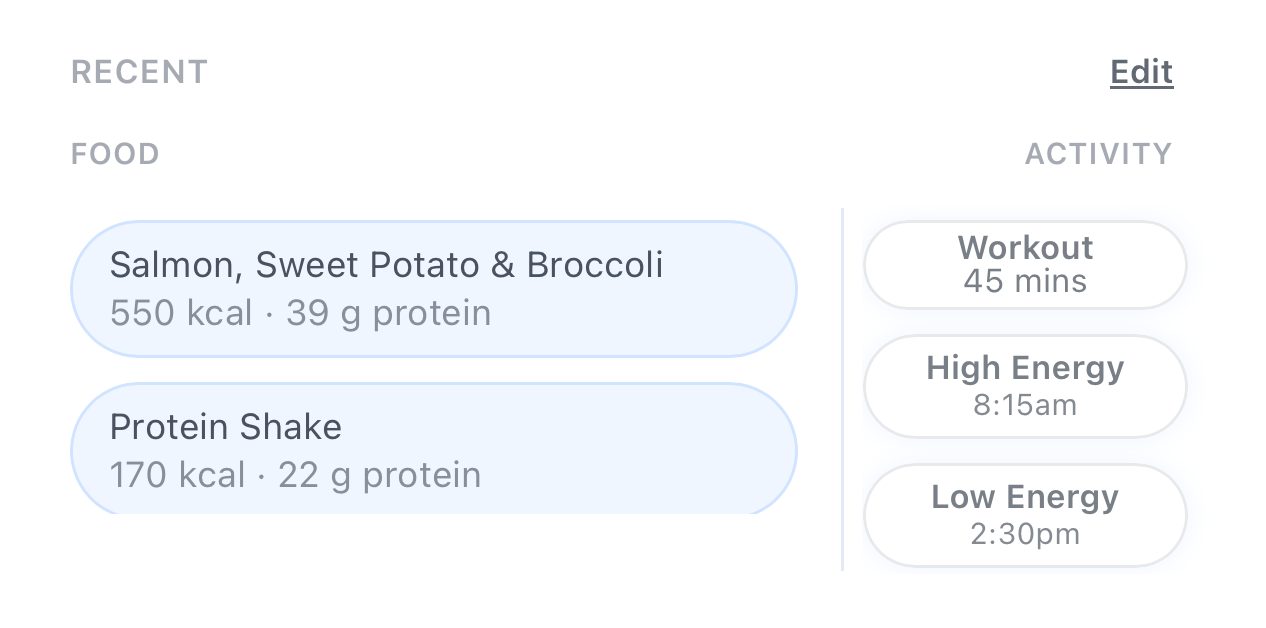
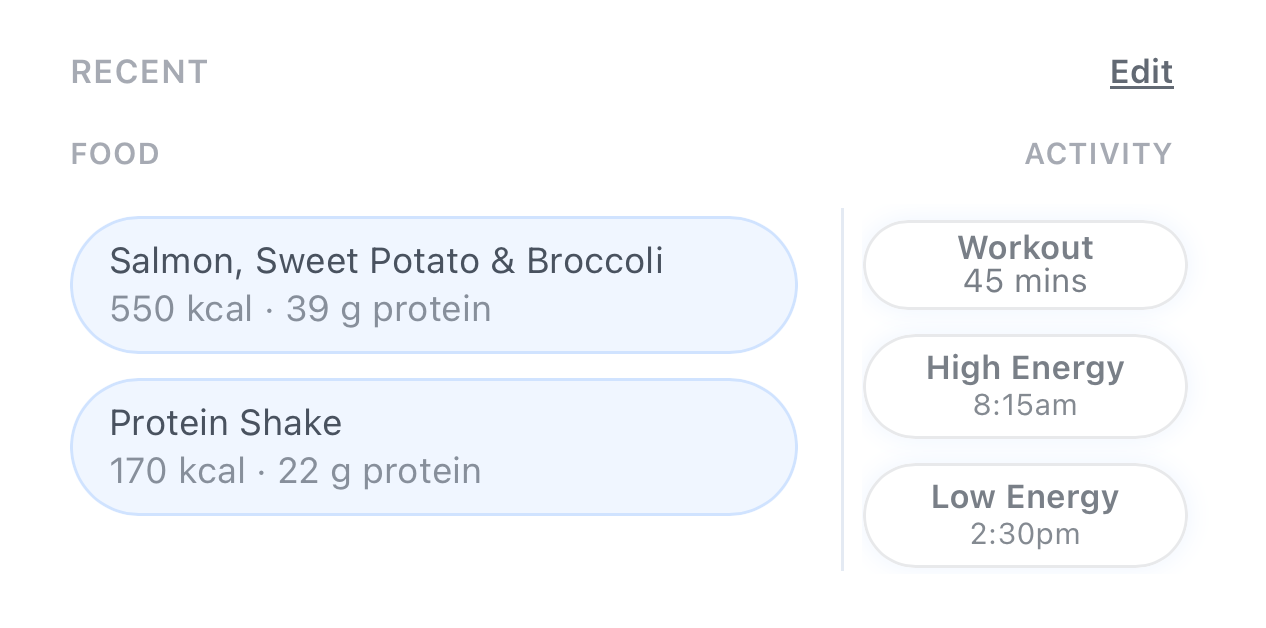
fix: map the wash to the document and complete the meal pills
background-attachment: fixed pinned the gradient to the viewport, so its
white band stayed on screen and white footer type scrolled onto it. Also
recut the food column in the real 2045-2070 gap between pills.

diff --git a/app/globals.css b/app/globals.css
@@ -43,7 +43,11 @@ body {
       #4C82C7 100%
     )
     no-repeat;
-  background-attachment: fixed;
+  /* Deliberately NOT background-attachment: fixed. Fixed sizes the gradient to
+     the viewport, so the white band at 31% stays pinned on screen and content
+     scrolls through it. The wash has to map to the document instead. */
+  background-attachment: scroll;
+  min-height: 100%;
 }
 
 /* Scroll reveal. Applied by JS only, so content is never stranded invisible. */
